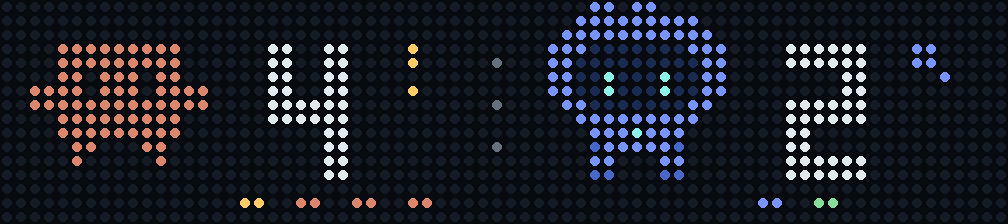
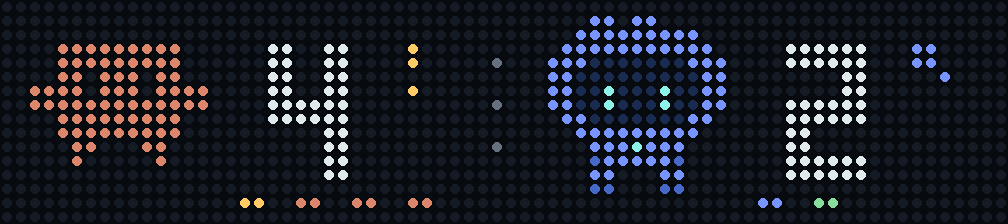
Center the Codex character in the duo view and keep its face when dimmed
Two rendering defects of the Codex character were visible on the device.

Vertical placement in the duo view
- The two characters have different heights: Clawd is 9 rows tall and the
  Codex character is 13. Clawd was drawn at y=3 (rows 3-11), but the Codex
  character was drawn at y=0 (rows 0-12).
- They were therefore aligned neither on their feet nor on their centers.
  The Codex character touched the top edge of the 16-row panel, and its
  vertical center (row 6) sat one row above Clawd's and the counter's
  (rows 7 and 7.5). On the bar it read as floating too high.
- It is now drawn at y=1 (rows 1-13), so both characters share the same
  center row (7). The counter digits stay vertically centered beside them.
- The bottom row 13 stays clear of the session dots on row 14, which sit in
  different columns anyway. The team view already uses its own per-family
  offsets and is unchanged.

Dimmed Codex lost its face
- Frame.sprite(dim=True) repainted every non-empty pixel with the same gray.
  That works for Clawd, whose eyes are holes ("0" pixels) and keep their
  contrast. The Codex face, however, is painted: a dark visor ("v") with
  cyan eyes and mouth ("C").
- Once flattened to one gray, the Codex character became a featureless
  silhouette whenever all its sessions were idle or unknown. This was
  noticed on the device after a failed Codex turn turned the family "?".
- Dimming now goes through a small DIM map: the visor becomes a hole (".")
[…]

diff --git a/agentdeck/render.py b/agentdeck/render.py
@@ -12,6 +12,8 @@ CODEX = ["000BB0BB00000", "00BBBBBBBBB00", "0BBBBBBBBBBB0", "BBBvvvvvvvBBB",
          "00BBBBBBBBB00", "000BBBCBBB000", "000sBBBBBs000", "000BB000BB000", "000ss000ss000"]
 MINI_CODEX = ["00BB0BB00", "0BBBBBBB0", "BBBvvvBBB", "BBvCvCvBB", "BBvvvvvBB",
               "0BBBBBBB0", "00BBCBB00", "00BBBBB00", "00ss0ss00"]
+# Dimming paints sprites gray; Codex's painted visor becomes a hole so its eyes stay visible.
+DIM = {"v": "."}
 FONT = {
     "0": ["111", "101", "101", "101", "111"], "1": ["010", "110", "010", "010", "111"],
     "2": ["111", "001", "111", "100", "111"], "3": ["111", "001", "111", "001", "111"],
@@ -40,7 +42,7 @@ class Frame:
         for dy, row in enumerate(rows):
             for dx, value in enumerate(row):
                 if value != "0":
-                    self.dot(x + dx, y + dy, "d" if dim else (color or value))
+                    self.dot(x + dx, y + dy, DIM.get(value, "d") if dim else (color or value))
 
     def text(self, text, x, y, color="w", scale=1):
         for ch in text:
@@ -144,7 +146,8 @@ def render(sessions, view="sessions", tokens=None, phase=0, errors=()):
             group = [s for s in sessions if s.provider == name]
             count = len(group)
             sprite = CLAWD if name == "claude" else CODEX
-            frame.sprite(sprite, x + 2, 3 if name == "claude" else 0,
+            # Centered vertically on each other: Clawd 3–11, the taller Codex 1–13.
+            frame.sprite(sprite, x + 2, 3 if name == "claude" else 1,
                          "c" if name == "claude" else None,
                          dim=all(s.state in {"idle", "unknown"} for s in group))
             label = "?" if name in errors else number(count)

diff --git a/tests/test_agentdeck.py b/tests/test_agentdeck.py
@@ -10,7 +10,7 @@ from unittest.mock import patch
 from agentdeck.hook import hook_state, update_snapshot
 from agentdeck.model import Session, layout
 from agentdeck.observe import Observer, pid_matches, rollout_state
-from agentdeck.render import CLAWD, MINI_CLAWD, Frame, PALETTE, compact, render
+from agentdeck.render import CLAWD, CODEX, MINI_CLAWD, MINI_CODEX, Frame, PALETTE, compact, render
 from agentdeck.storage import write_json
 from agentdeck.usage import Usage, parse_usage
 
@@ -31,6 +31,16 @@ def claude_duo_crop(state):
 
 
 class RenderingTests(unittest.TestCase):
+    def test_dimmed_codex_keeps_a_visible_face(self):
+        for sprite in [CODEX, MINI_CODEX]:
+            frame = Frame()
+            frame.sprite(sprite, 0, 0, dim=True)
+            colors = {(x, y): frame.rows[y][x] for y, row in enumerate(sprite) for x, v in enumerate(row)}
+            eyes = {colors[p] for p, v in zip(colors, "".join(sprite)) if v == "C"}
+            visor = {colors[p] for p, v in zip(colors, "".join(sprite)) if v == "v"}
+            self.assertTrue(eyes.isdisjoint(visor), sprite)
+            self.assertTrue({colors[p] for p, v in zip(colors, "".join(sprite)) if v != "0"} <= {"d", "."})
+
     def test_single_provider_uses_entire_team(self):
         for provider in ["claude", "codex"]:
             self.assertEqual(layout([session(provider)]), ("team", provider))

diff --git a/CHANGELOG.md b/CHANGELOG.md
@@ -20,6 +20,8 @@
   every poll, keeping `ps` as the fallback where libproc is unavailable; skip
   fsync for the per-poll status snapshot and rewrite `front.png` only when the
   frame changes.
+- Center the Codex character on Clawd in the duo view and keep its face visible
+  when dimmed.
 
 ## 0.1.0
 
